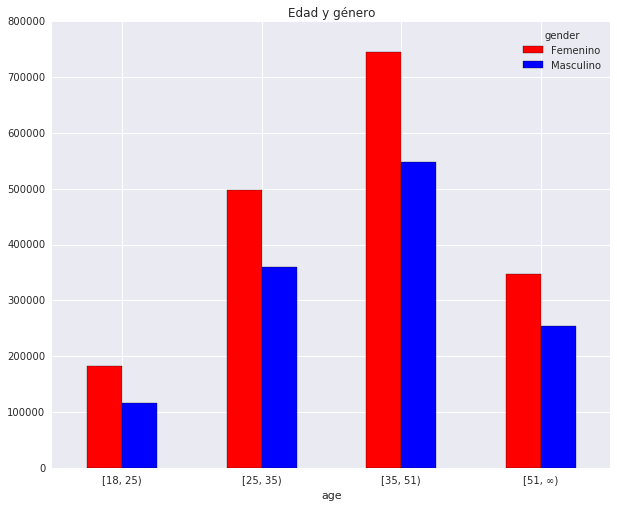
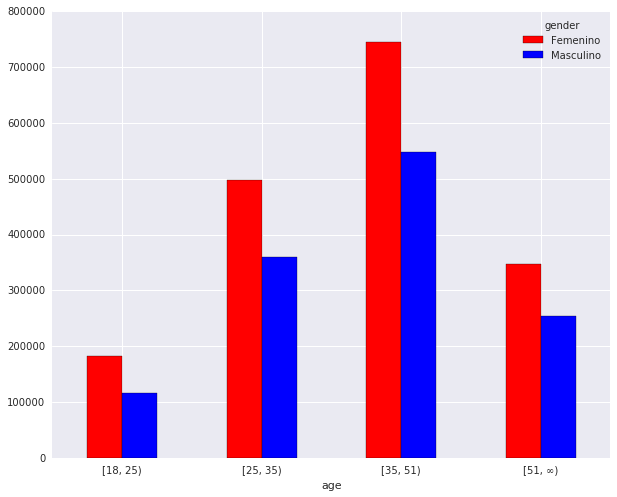
Agragando graficos y primer referencia.

diff --git a/Tesis.tex b/Tesis.tex
@@ -18,6 +18,7 @@ twocolumn
 \usepackage[T1]{fontenc} % Output font encoding for international characters
 \usepackage[margin=2.5cm]{geometry}
 \usepackage{changepage}
+\usepackage{graphicx}
 
 % \geometry{
 % 	paper=a4paper, % Change to letterpaper for US letter
@@ -34,18 +35,18 @@ twocolumn
 \author{
 	\hspace{-1.725cm} Esteban Feuerstein\\
 	\hspace{-1.725cm} Universidad de Buenos Aires\\
-	\hspace{-1.725cm} Buenos Aires, Argentcma\\
+	\hspace{-1.725cm} Buenos Aires, Argentina\\
 	\hspace{-1.725cm} \url{efeuerst@dc.uba.ar}
-	\and
-	Martín Fixman\\
-	Universidad de Buenos Aires\\
-	Buenos Aires, Argentina\\
-	\url{martinfixman@gmail.com}
 	\and
 	Carlos Sarraute\\
 	Grandata Labs\\
 	Buenos Aires, Argentina\\
 	\url{charles@grandata.com}
+	\and
+	Martín Fixman\\
+	Universidad de Buenos Aires\\
+	Buenos Aires, Argentina\\
+	\url{martinfixman@gmail.com}
 }
 \date{}
 
@@ -63,7 +64,7 @@ Modelar los datos de las personas dentro de lo que llamamos \textbf{Grafo de Com
 
 \pdfcomment{Acá van temas sobre papers referenciados, y un resumen de algunas cosas}
 
-\subsection{Descripción de datos de entrada}
+\subsection*{Descripción de datos de entrada}
 
 Los datos usados por este estudio consisten de \textbf{Call Detail Records}, o CDRs, sobre llamados y mensajes de texto provenientes de la red de una compañía telefónica Mexicana, en un periodo de \( M \) meses (\( M = 3 \)), denotado por \( L \). Cada CDR contiene los números de teléfonos anonimizados de los dos participantes de la comunicación \(\left<o, d\right>\), el tiempo del llamado \(t\), y, en el caso de los CDRs de llamados su duración \(s\). Un subconjunto de estos llamados también contienen la latitud y la longitud de la antena usada para la llamada, \(\left<y, x\right>\).
 
@@ -73,11 +74,40 @@ Además se usa información sobre depósitos, extracciones, y transacciones hech
 
 Al igual que en el dataset anterior, \( B \) contiene una gran cantidad de datos sobre usuarios que no pertenecen a la telco. Definimos \( B_N \) como los usuarios del banco donde \( \left( \exists i \right) t_i \in N \), osea que pertenezcan a la telco.
 
-Para este estudio conseguimos información demográfica sobre la edad y el género \( \left<e, g\right> \) de un subconjunto de los nodos \( G_N \) al que denominamos \textbf{Ground Truth}. Estos datos los provee la compañía telefónica y no tenemos ningún tipo de control sobre como se selecciona.
+Para este estudio conseguimos información demográfica sobre la edad y el género \( \left<e, g\right> \) de un subconjunto de los nodos \( G_{GT} \subset G_N \) al que denominamos \textbf{Ground Truth}. Estos datos los provee la compañía telefónica y no tenemos ningún tipo de control sobre como se selecciona.
 
 Para apoyar al estudio, conseguimos los resultados del último censo mexicano, encontrado en \pdfcomment{URL del censo acá} y, usando el nivel socioeconómico de ciertas áreas de México, podemos hacer una primera aproximación del nivel socioeconómico de la población de esas áreas.
 
-\section{Figures}
+\subsection*{Inferencia de datos}
+
+Dado el conjunto de datos de edad y génenero dentro del Ground Truth \( \left|G_{GT}\right| = 1805534 \), y el conjunto de llamadas hechas por los usuarios, podemos usar el algoritmo de Reaccion Difusion \cite{reactiondiffusion} para extender una aproximación a todo \( G_N \).
+
+\begin{figure}
+\center
+\includegraphics[width=\columnwidth]{Figures/gender_age_bar}
+\caption{Cantidad de usuarios en \( G_N \) por genero y edad}
+\end{figure}
+
+\begin{figure}
+\center
+\includegraphics[width=\columnwidth]{Figures/sei_hist}
+\caption{Usuarios por nivel socioeconómico}
+\end{figure}
+
+\begin{figure}
+\center
+\includegraphics[width=\columnwidth]{Figures/sei_age_heatmap}
+\caption{Nivel socioeconomico por genero y edad}
+\end{figure}
+
+\begin{thebibliography}{1}
+\bibitem{reactiondiffusion}
+  \textbf{Paper about Reaction Diffusion Algorithm}, \\
+  Grandata Labs, \\
+  Lorem ipsum dolor sit amet, consectetur adipiscing elit. \\
+  Aliquam dictum nunc sed augue elementum, quis rutrum nisi pulvinar. \\
+  In aliquam iaculis ipsum, vitae lacinia erat blandit ac. \\
+\end{thebibliography}
 
 \end{document}
 
